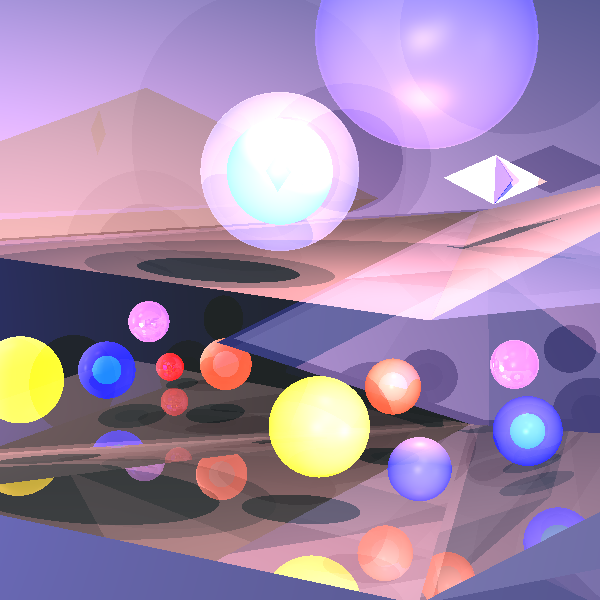
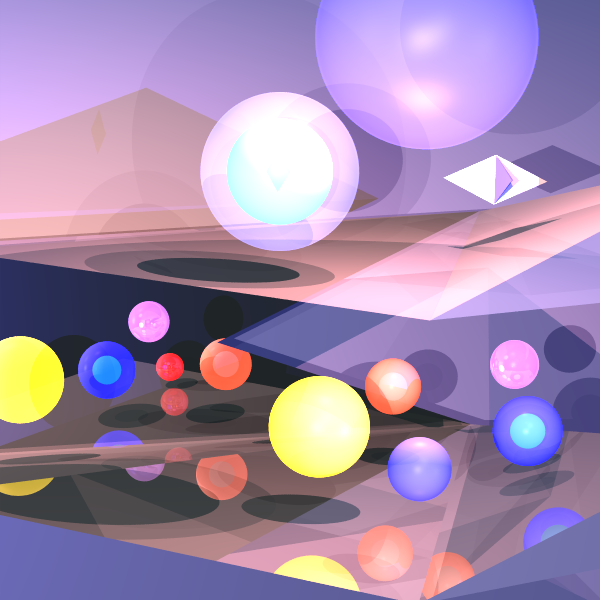
fb

Changed region(s): [[0.63, 0.99, 0.66, 1.0]]

diff --git a/src/elements/Camera.java b/src/elements/Camera.java
@@ -1,6 +1,7 @@
 package elements;
 
 import static primitives.Util.*;
+import java.util.Random;
 
 import java.util.LinkedList;
 import java.util.List;
@@ -124,11 +125,23 @@ public class Camera {
 		Ray ray;
 		var lst = new LinkedList<Ray>();
 		lst.addAll(List.of(new Ray(location, pIJ.subtract(location))));
+		Random rand = new Random();
 		for(int Pi = 0; Pi < N; Pi++) {
 			for(int Pj = 0; Pj < N; Pj++) {
-				ray = constructRaysThroughPixel(Rx, Ry, Pj+j, Pi+i, N);
-				if(ray != null)
-					lst.add(ray);
+
+		        // Generate Random doubles
+		        double dX = rand.nextDouble();
+		        double dY = rand.nextDouble();
+		        boolean bX = rand.nextBoolean();
+		        boolean bY = rand.nextBoolean();
+		        dX = bX? dX : -dX;
+		        dY = bY? dY : -dY;
+		        yi = Ry/2 * dY;
+				xj = Rx/2 *dX;
+		        Point3D rndP = pIJ.add(vRight.scale(yi));
+				rndP = rndP.add(vUp.scale(xj));
+				
+				lst.add(new Ray(location, rndP.subtract(location)));
 			}
 		}
 	    return lst;

diff --git a/src/renderer/Render.java b/src/renderer/Render.java
@@ -67,7 +67,7 @@ public class Render {
 //				}
 //			}
 //		}
-//	}
+	
 	
 	public void renderImage() {
 		if (camera == null)
@@ -83,20 +83,11 @@ public class Render {
 		Color color = new Color(0,0,0);
 		for(int i = 0; i < Nx; i++) {
 			for(int j = 0; j < Ny; j++) {
-				if(i==250&&j==250) {
-					for (Ray ray: camera.constructRayThroughPixel(Nx, Ny, j, i,3)) {
-						color.add(rayTracerBase.TraceRay(ray));
-					}
-					color.scale(1/81);
-					imageWriter.writePixel(j, i, color);
-				}
-				else {
-					for (Ray ray: camera.constructRayThroughPixel(Nx, Ny, j, i,3))
-						color.add(rayTracerBase.TraceRay(ray));
-					color.scale(1/9);
+					for (Ray ray: camera.constructRayThroughPixel(Nx, Ny, j, i,9))
+						color = color.add(rayTracerBase.TraceRay(ray));
+					color = color.reduce(82);
 					imageWriter.writePixel(j, i, color);
 					}
-				}
 			}
 		}
 

diff --git a/src/unittests/ReflectionRefractionTests.java b/src/unittests/ReflectionRefractionTests.java
@@ -121,10 +121,10 @@ public class ReflectionRefractionTests {
 //		render.writeToImage();
 //	}//end
 	
-	/**
-	 * Produce a picture of a two triangles lighted by a spot light with a partially
-	 * transparent Sphere producing partial shadow
-	 */
+//	/**
+//	 * Produce a picture of a two triangles lighted by a spot light with a partially
+//	 * transparent Sphere producing partial shadow
+//	 */
 	@Test
 	public void ourPicture() {
 		Camera camera = new Camera(new Point3D(689, 777, -100), new Vector(-597, -754, -46), new Vector(0, -46, 754)) //
